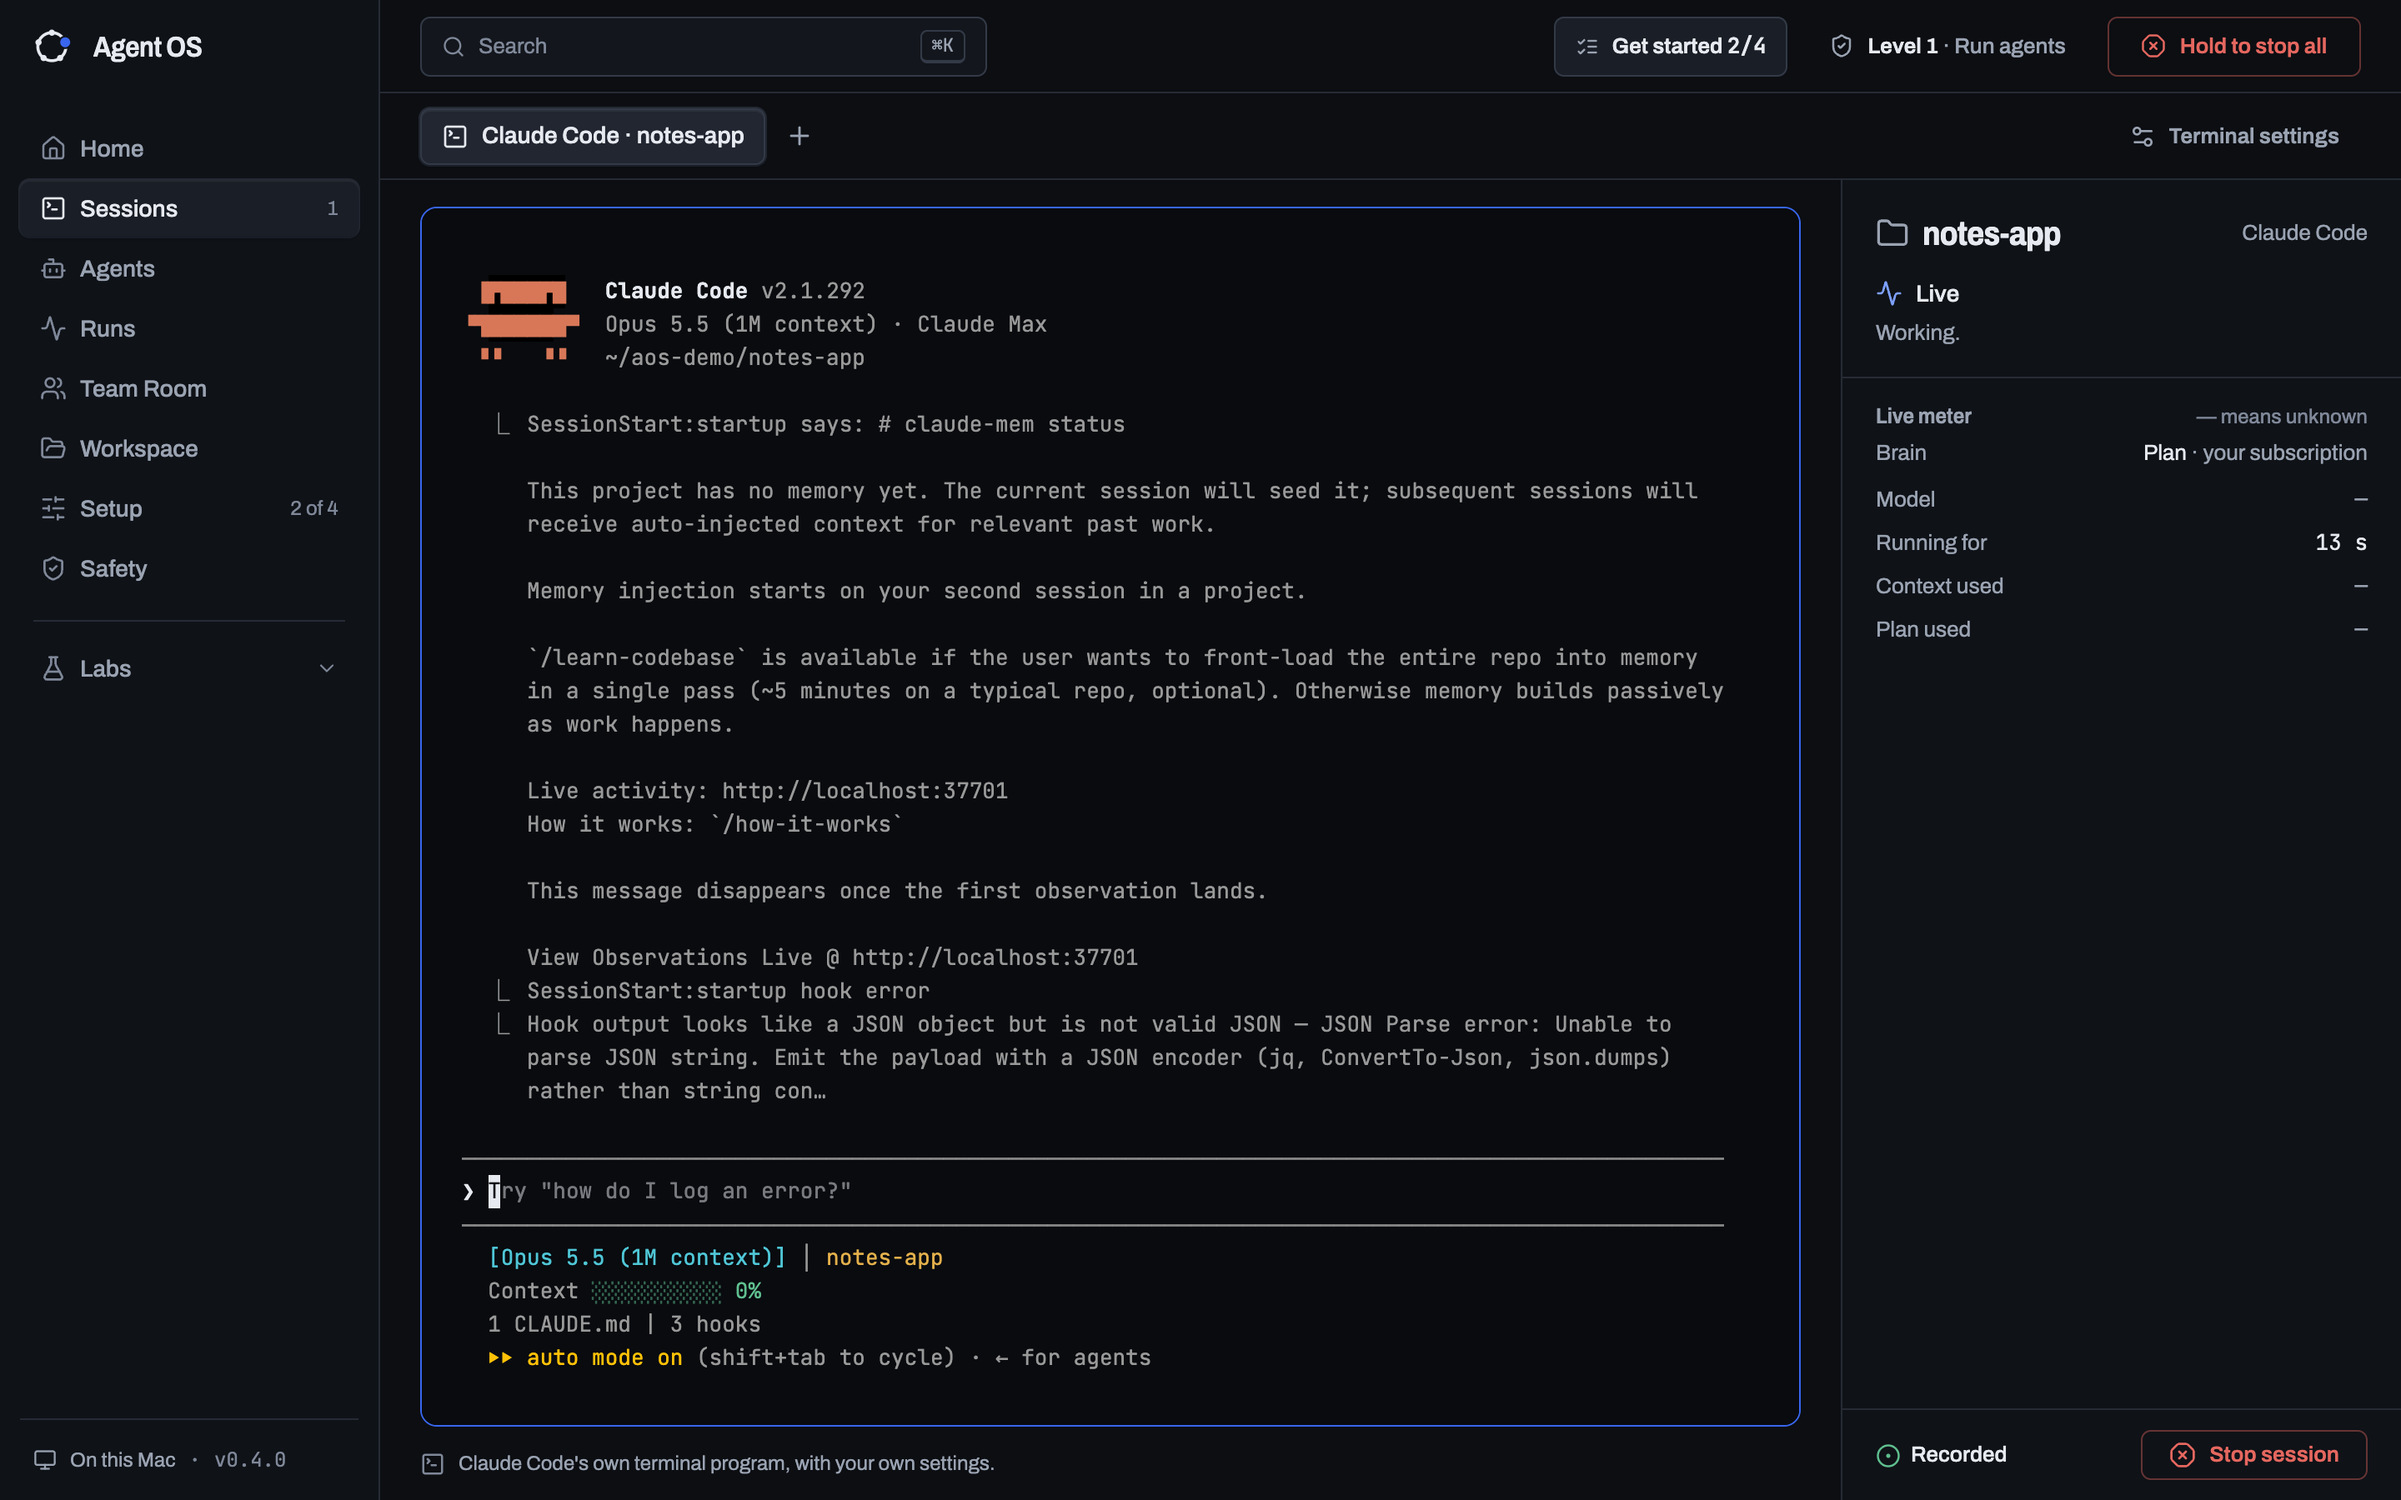
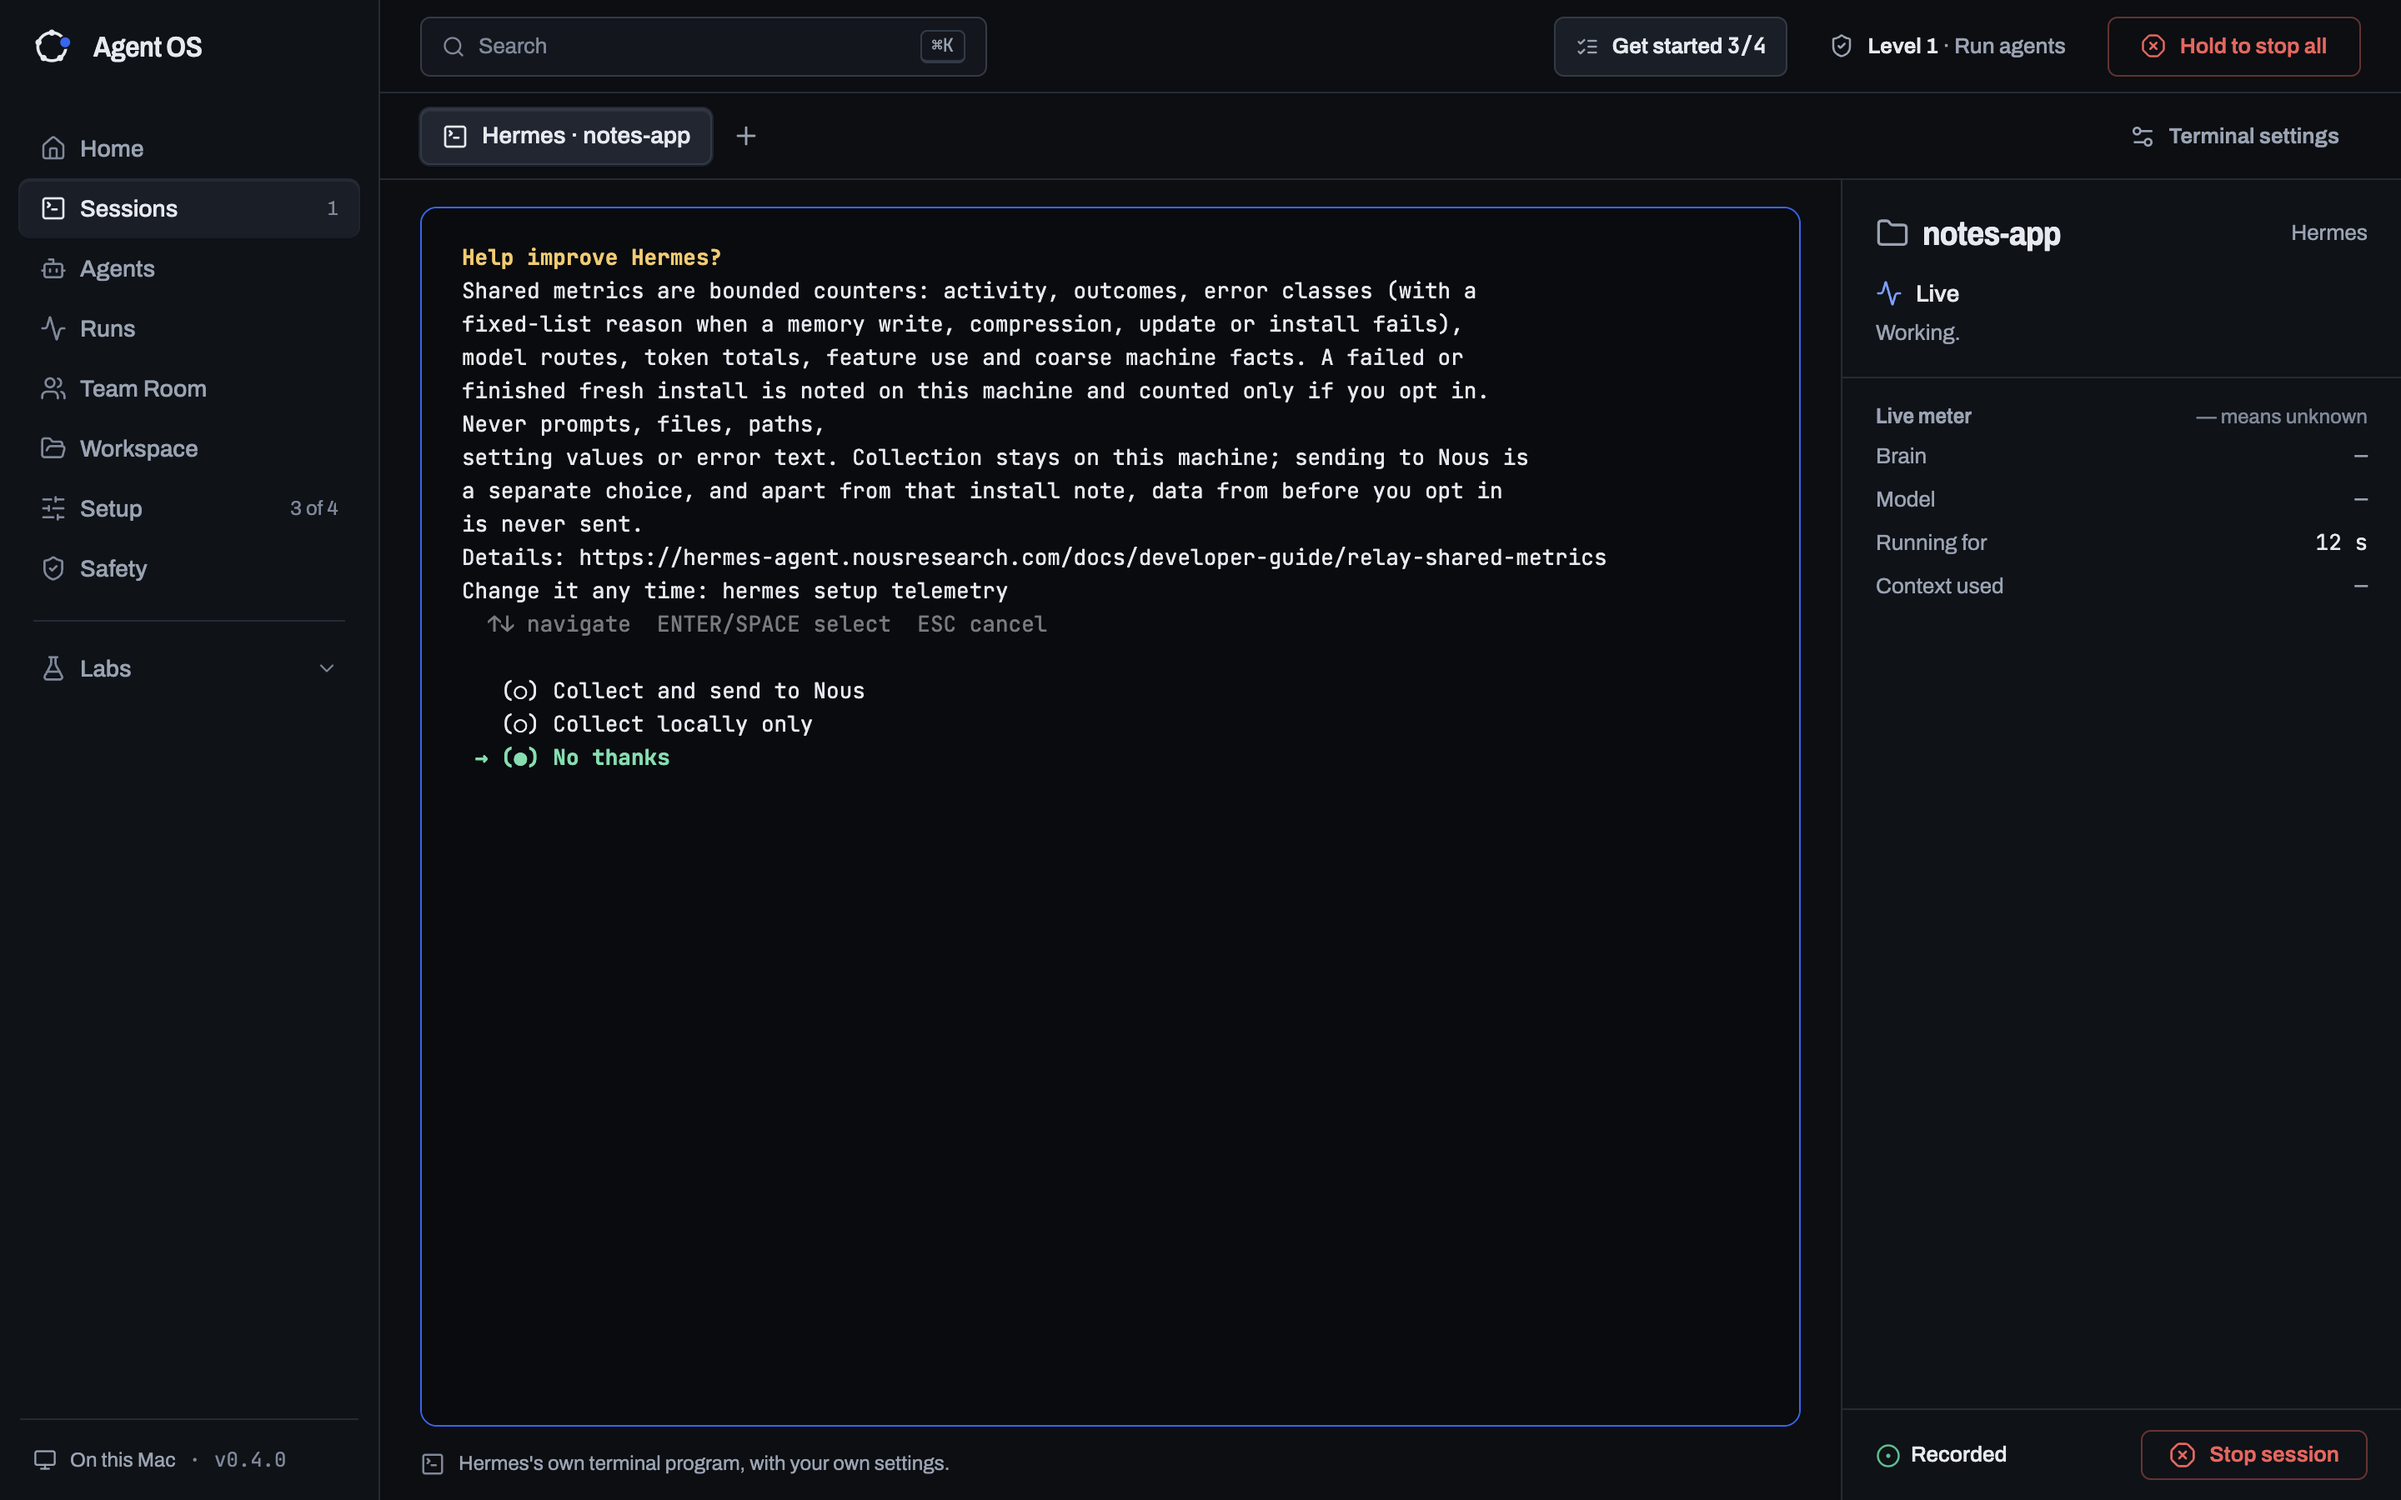
README: the Sessions screenshots show a real Hermes session
The Claude Code shot showed start-up lines from the author's own plugins;
the new pair shows Hermes's own first question (nothing answered) and its
recording in Runs.

diff --git a/README.md b/README.md
@@ -56,9 +56,9 @@ Version 0.4 has a new look: dark only, a cobalt-blue accent, a new logo (a ring 
 
 A session is an agent's own terminal program running inside Agent OS. It is your installed copy of Claude Code, Codex, Cursor, Hermes or OpenClaw, so your keys and slash commands work the way they do in Terminal. Agent OS starts each program the way a normal terminal would, with your own sign-in and settings (if you picked an OpenRouter or Local brain for Claude Code or Codex in Agent OS, the session uses that brain). It never sets your home folder or the agents' config folders.
 
-![Agent OS Sessions page with one live Claude Code session in a folder named notes-app. The terminal shows Claude Code's own start screen: version 2.1.292, the Opus 5.5 model on a Claude Max plan, and the folder path, followed by start-up notes and a hook error from the author's own plugins. The side panel shows the session as Live with a Stop session button, the footer reads v0.4.0, and the top bar shows Level 1 Run agents.](docs/screenshots/v2/sessions.png)
+![Agent OS Sessions page with one live Hermes Agent session in a folder named notes-app. The terminal shows Hermes's own question, Help improve Hermes?, which explains its shared usage counters and offers three choices: Collect and send to Nous, Collect locally only, and No thanks, which is highlighted. Nothing was answered or typed. The side panel shows the session as Live with a Stop session button, the footer reads v0.4.0, and the top bar shows Level 1 Run agents.](docs/screenshots/v2/sessions.png)
 
-<sub>Sessions, on the author's Mac: a live Claude Code session in a throwaway demo folder. Everything inside the terminal is Claude Code's own output, including the lines from the author's own plugins. The tab and the side panel are Agent OS. The "auto mode on" line is the author's own Claude Code setting, not something Agent OS turns on.</sub>
+<sub>Sessions, on the author's Mac: a live Hermes Agent session in a throwaway demo folder, stopped right after this shot. Everything inside the terminal is Hermes's own output: its question about sharing usage counters, with "No thanks" already highlighted. Nothing was typed or answered. The tab and the side panel are Agent OS.</sub>
 
 - **New session:** pick an agent and a folder. The folder can be any folder inside your home folder, but not the home folder itself and not Agent OS's own data folder. The desktop app has a folder picker, you can pick a recent folder, and in a browser tab you type the full path. Sessions need Safety level 1 ("Run agents"), and at most 8 can be open at once.
 - **Tabs:** one tab per session, named by its agent and folder. An ended session's tab says so, and you can dismiss it. The side panel shows the state (starting, live or ended), the brain, how long the session has run, whether it is recorded, and a Stop button.
@@ -109,7 +109,7 @@ A run is one task an agent does on its own, without a terminal. Every run is rec
 
 The second tab, **Session recordings**, lists every recorded session, with Resume conversation.
 
-![Agent OS Runs page on the Session recordings tab. It lists one saved recording, Claude Code in ~/aos-demo/notes-app, 38 seconds long and recorded a minute ago, with a Resume conversation button and the note Replay arrives in a later update. The top bar shows Level 1 Run agents.](docs/screenshots/v2/runs-recordings.png)
+![Agent OS Runs page on the Session recordings tab. It lists one saved recording, Hermes in ~/aos-demo/notes-app, 33 seconds long and recorded a minute ago, with a Resume conversation button and the note Replay arrives in a later update. The top bar shows Level 1 Run agents.](docs/screenshots/v2/runs-recordings.png)
 
 <sub>Runs, on the Session recordings tab, on the author's Mac. It lists the recording of the demo session above.</sub>
 
